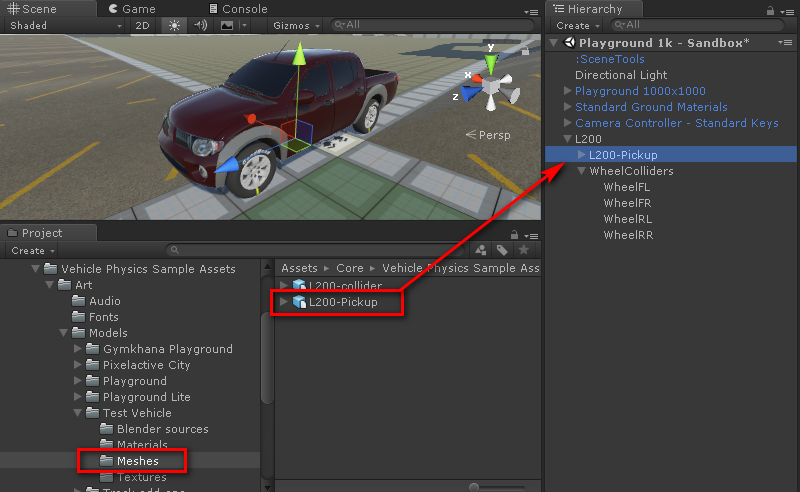
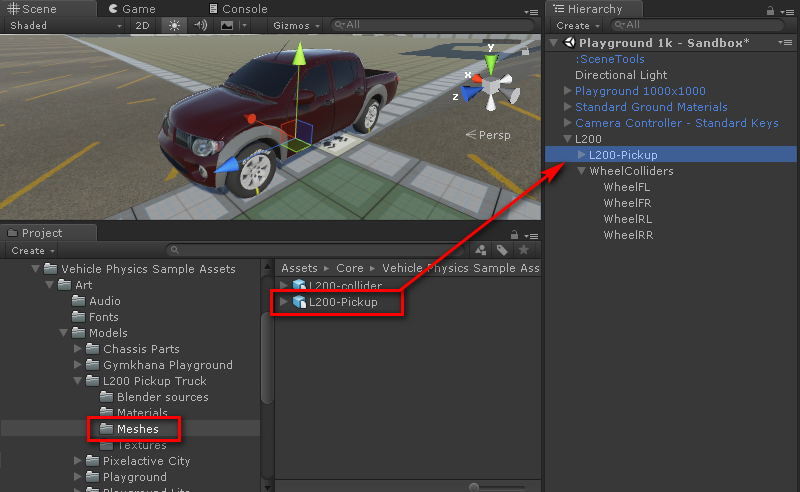
Added information on Inertia configuration

Changed region(s): [[0.0938, 0.7012, 0.2812, 1.0]]

diff --git a/docs/components/vehicle-controller.md b/docs/components/vehicle-controller.md
@@ -4,10 +4,10 @@ The vehicle-equivalent of Unity's character controller. Simulates most types of 
 
 ![VP Vehicle Controller](/img/components/vpp-vehicle-controller.png){: .clickview }
 
-The vehicle controller exposes the settings for the center of mass, axles and powertrain: steering,
-brakes, tires, driveline, engine, clutch, gearbox and retarder. Other settings for the wheels
-(radius, mass) and suspension (spring, damper) are configured at each [VP Wheel Collider](wheel-collider)
-component independently.
+The vehicle controller exposes the settings for the center of mass, inertia, axles, steering, brakes,
+tires, powertrain (engine, clutch, gearbox, retarder, driveline), driving aids and safety aids.
+Other settings for the wheels (radius, mass) and suspension (spring, damper) are configured at each
+[VP Wheel Collider](wheel-collider) component independently.
 
 This is the block layout of an AWD vehicle in VPVehicleController:
 
@@ -46,7 +46,7 @@ end
 
 Notes:
 
-- Steering, Brakes and Tire Friction are included in the Wheel blocks.
+- Steering, Brakes and Tire Friction are included in the Wheel blocks in the figure.
 - The Retarder Brake is typically used in heavy transport vehicles (trucks, buses). It stays
 disabled on regular cars, SUVs, vans, etc.
 
@@ -68,13 +68,32 @@ vehicle. The vertical position affects the stability.
 		name it `CoM`.
 	2. Set it as Center of Mass in the vehicle controller.
 	3. Move the CoM gameobject to the middle of your vehicle as seen from the top.
-	4. Imagine the chassis of the vehicle. Change the vertical position (Y) of the CoM until
+	4. Figure out the chassis of the vehicle. Change the vertical position (Y) of the CoM until
 		it "touches" the imaginary chassis from upside.
 	5. Move the CoM longitudinally (Z) slightly towards the position of the engine. It should be
 		placed around 2/3 of the length of the vehicle.
 
-	When playing around with your vehicle you can adjust its handling behavior by modifying the Z
-	position of the CoM. For modifying the stability move the Y position of the CoM.
+	You may modify the position of the CoM in runtime for finding a better value.
+
+### Inertia
+
+The inertia defines the distribution of mas along the vehicle. Inertia plays a critical role in the
+handling (understeer / oversteer).
+
+!!! info "&fa-info-circle; How to configure the Inertia"
+
+	Recommended method:
+
+	1. In the Inertia settings choose the "Parametric" mode.
+	2. Configure the chassis dimensions to roughly match the bottom part of the vehicle.
+	3. Configure Inertia Bias to 1 if the vehicle has the engine in the front, or to -1 if the
+		engine in the rear.
+	4. Refine the Inertia Bias value based on the vehicle's behavior. Positive values cause more
+		oversteer, while negative values cause more understeer.
+
+	Feel free to play with the vehicle and modify Inertia Bias in runtime for adjusting the handling.
+
+Details: [Inertia helper](/blocks/inertia)
 
 ### Axles
 
@@ -324,6 +343,7 @@ AntiSpin<br>
 [Differential](/blocks/differential)<br>
 [Engine](/blocks/engine)<br>
 [Gearbox](/blocks/gearbox)<br>
+[Inertia](/blocks/inertia)<br>
 [Retarder](/blocks/retarder)<br>
 SpeedControl<br>
 StabilityControl<br>

diff --git a/docs/blocks/inertia.md b/docs/blocks/inertia.md
@@ -1,0 +1,61 @@
+# Inertia helper
+
+![Inertia inspector and parametric gizmo](/img/blocks/vpp-inertia-inspector-parametric-gizmo.png){: .clickview }
+
+The inertia defines the distribution of mass in the vehicle. Inertia plays a critical role in the
+handling (understeer / oversteer) of the vehicle. The Inertia helper provides handy options for
+configuring the vehicle's inertia easily.
+
+In runtime the inspector shows the Inertia Tensor values actually applied to the vehicle:
+
+![Inertia inspector in runtime](/img/blocks/vpp-inertia-inspector-parametric-runtime.png)
+
+## Configuration modes
+
+#### Default
+
+![Inertia inspector in Default mode](/img/blocks/vpp-inertia-inspector-default.png)
+
+In the default mode the vehicle inertia isn't configured at all. The inertia will take the default
+value as computed by Unity out of the collision mesh. Typically this produces cars with heavy
+understeering.
+
+It is advised to configure the inertia and not to leave the Default mode, as the handling will be
+likely unrealistic.
+
+Alternatively, you may use the VPVehicleInertia component anywhere in the vehicle to configure the
+inertia separately from the VPVehicleController component (i.e. in [custom vehicles](/advanced/custom-vehicles)).
+
+#### Parametric (recommended)
+
+![Inertia inspector in Parametric mode](/img/blocks/vpp-inertia-inspector-parametric.png)
+
+Most convenient method. Configure the chassis dimensions to roughly match the bottom part of the
+vehicle, with the chassis and the engine. A box of the given dimensions is drawn in the scene view.
+
+The Inertia Bias is a dimensionless factor that configures the longitudinal distribution of the mass:
+
+- Positive values: there's more mass at the front of the vehicle. Positive values increase oversteer.
+- Negative values: there's more mass at the rear of the vehicle. Negative values increase understeer.
+- Neutral: the mass is evenly distributed around the center of mass. Balanced behavior.
+
+The larger the magnitude, the more the effect of the bias.
+
+#### Inertia Colliders
+
+![Inertia inspector in Inertia Colliders mode](/img/blocks/vpp-inertia-inspector-colliders-gizmo.png){: .img-medium }
+
+The inertia will be computed out of a specific set of colliders resembling the vehicle's most
+massive parts (chassis, engine, transmission). These colliders won't be used as collision mesh.
+
+Some properly shaped colliders are available in the repository Vehicle Physics Sample Assets
+(/Art/Models/Chassis Parts).
+
+When the set of colliders is left-right symmetric, then the same inertia effect may be achieved
+with the Parametric method.
+
+#### Explicit
+
+![Inertia inspector in Default mode](/img/blocks/vpp-inertia-inspector-explicit.png)
+
+Specify the inertia values directly as the Inertia Tensor and its rotation (in Euler angles).

diff --git a/docs/user-guide/vehicle-creation.md b/docs/user-guide/vehicle-creation.md
@@ -1,8 +1,8 @@
 # Creating vehicles
 
 This step-by-step tutorial shows how to create and configure a new vehicle from scratch in Vehicle
-Physics Pro. You will be configuring and rigging the L200-Pickup Test Vehicle, but you may configure
-any vehicle following the same steps.
+Physics Pro. You will be configuring and rigging the L200 Pickup Truck, but you may configure any
+vehicle following the same steps.
 
 Requirements
 :	An Unity 3D project with the VPP core and sample assets (see [Setting Up Vehicle Physics Pro](/user-guide/setting-up-vpp)).
@@ -68,7 +68,7 @@ Select the four Wheel GameObjects, then add a **VPWheelCollider** component to t
 5- Add the visual mesh
 {: .header }
 
-- Locate the L200-Pickup mesh (_Sample Assets > Art > Models > Test Vehicle > Meshes_).
+- Locate the L200-Pickup mesh (_Sample Assets > Art > Models > L200 Pickup Truck > Meshes_).
 - Drag it to the L200 GameObject in the Hierarchy so it becomes a child of L200.
 
 &fa-hand-o-right:lg;&nbsp; Check out [3D models and environments](/user-guide/3d-models) for more
@@ -119,7 +119,7 @@ _"Configuring the VPWheelColliders manually"_ below if you need to do it manuall
 
 The collision mesh is a simplified version of the vehicle mesh.
 
-- Locate the L200-Collider mesh (_Sample Assets > Art > Models > Test Vehicle > Meshes_).
+- Locate the L200-Collider mesh (_Sample Assets > Art > Models > L200 Pickup Truck > Meshes_).
 - Drag it to the L200 GameObject in the Hierarchy so it becomes a child of L200.
 
 &fa-warning:lg;&nbsp; **A collider is mandatory in the vehicle.** Check out [3D models and environments](/user-guide/3d-models)

diff --git a/docs/user-guide/getting-started.md b/docs/user-guide/getting-started.md
@@ -54,8 +54,9 @@ play with:
 
 ![VP Vehicle Controller](/img/components/vpp-vehicle-controller.png){: .img-medium .clickview }
 
-- **Center Of Mass:** references the position of the center of mass of the vehicle.
-- **Axes:** references to the wheels and assign steering and brakes to them.
+- **Center Of Mass:** references the position of the center of mass in the vehicle.
+- **Inertia:** configures the distribution of mass in the vehicle. Affects understeering / oversteering behavior.
+- **Axes:** references to the wheels and assigns steering and brakes to them.
 - **Steering:** steering angle, ackerman, toe.
 - **Brakes:** brake torques, balance, handbrake.
 - **Tires:** tire friction model and parameters.
@@ -124,7 +125,8 @@ material.
 
 The ground materials are identified by the Physics Materials assigned to the colliders in the scene.
 Colliders without Physic Material assigned can also have their Ground Material (Physic Material =
-_none_, as shown in the above pic).
+_none_, as shown in the above pic). Note that the friction properties in the Physic Materials don't
+affect the tire friction.
 
 #### Camera Controller
 

diff --git a/docs/blocks/driveline.md b/docs/blocks/driveline.md
@@ -1,4 +1,4 @@
-# Driveline
+# Driveline helper
 
 ![VP Vehicle Controller driveline](/img/blocks/vpp-driveline-inspector.png)
 
